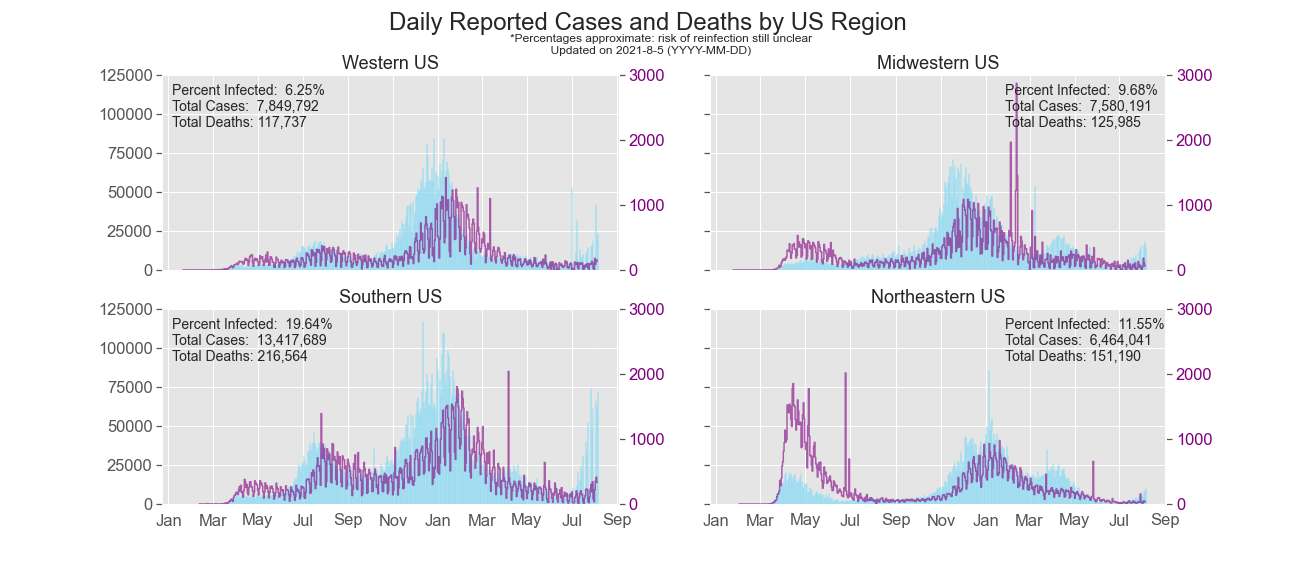
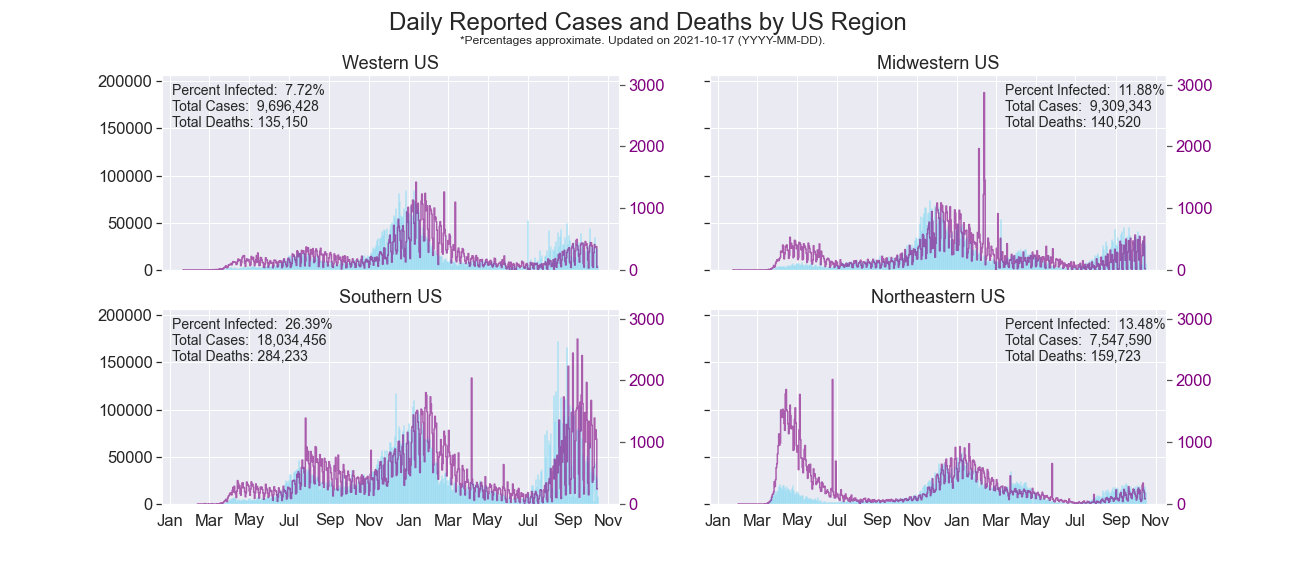
fixed bugs and added env file

diff --git a/src/make_fig_regions.py b/src/make_fig_regions.py
@@ -1,12 +1,10 @@
 ############################################################################################
 # Imports 
 ############################################################################################
-import numpy as np
 import pandas as pd
 import time
 
 import matplotlib.pyplot as plt
-import matplotlib.dates as mdates
 from matplotlib.dates import DateFormatter
 import seaborn as sns
 sns.set(font_scale=1.5) 
@@ -19,7 +17,6 @@ from bs4 import BeautifulSoup
 import requests
 
 from helper_functions import dailyChanges
-from helper_functions import smoother
 from helper_functions import sumByDate
 
 ############################################################################################
@@ -53,7 +50,7 @@ html_content = requests.get(url).text      # Make a GET request to fetch the raw
 soup = BeautifulSoup(html_content, "lxml") # Parse the html content
 
 fips, countyName, stateName = [], [], []
-for tr in soup.find_all('tr')[29:-6]: #Found bounds manually
+for tr in soup.find_all('tr')[29:-6]: #Found bounds manually. Think of a better way
     tds = tr.find_all('td')
     fips.append(tds[0].text.replace('\r\n\t\t\t\t',''))
     countyName.append(tds[1].text.replace('\r\n\t\t\t\t',''))
@@ -123,8 +120,8 @@ fig.suptitle('Daily Reported Cases and Deaths by US Region', fontsize=24)
 
 # Pad the space on the top to allow for an annotation below suptitle
 fig.subplots_adjust(top=0.87)
-plt.annotate('*Percentages approximate: risk of reinfection still unclear\n' + ' '*12 + 'Updated on ' + date_str, 
-             (-200,450), 
+plt.annotate(f"*Percentages approximate. Updated on {date_str}.", 
+             (-250,460), 
              fontsize=12, 
              xycoords='axes pixels')
 
@@ -143,6 +140,9 @@ new_axes = []
 axes = [ax[0,0], ax[0,1], ax[1,1], ax[1,0]]
 
 # Set the cases plot parameters in a relatively efficient manner
+highest_cases = int(max([dailyW.max()[0], dailyMW.max()[0], dailyNE.max()[0], dailyS.max()[0]]))
+highest_deaths = int(max([dailyW.max()[1], dailyMW.max()[1], dailyNE.max()[1], dailyS.max()[1]]))
+
 for i, axis in enumerate(axes):
     axis.set_title(titles[i], fontsize=18)
     axis.xaxis.set_major_formatter(date_form)
@@ -155,7 +155,7 @@ for i, axis in enumerate(axes):
              width=1,
              color='deepskyblue',
              alpha=0.6)   
-    axis.set_ylim([0,125000])
+    axis.set_ylim([0, highest_cases + highest_cases//10])
     
     # Make dual axes
     new_axes.append(axis.twinx())
@@ -164,11 +164,15 @@ for i, axis in enumerate(axes):
 for i, axis in enumerate(new_axes):
     axis.tick_params(axis='y', labelcolor='purple')
     axis.xaxis.set_major_formatter(date_form)
-    axis.set_ylim([0,2250])
+    axis.set_ylim([0, highest_deaths + highest_deaths//10])
     axis.grid(False)                                 # Turn off second grid
     new_axes[i].step(plot_data[i].index, 
                      plot_data[i].new_deaths,  
                      color='purple',
                      alpha=0.6)
     
-plt.savefig('../figures/Daily_US_Regions')
+
+if __name__ == '__main__':
+    # Save the figure
+    plt.savefig('../figures/Daily_US_Regions')
+    plt.show()

diff --git a/src/make_fig_usa.py b/src/make_fig_usa.py
@@ -1,12 +1,10 @@
 ############################################################################################
 # Imports
 ############################################################################################
-import numpy as np
 import pandas as pd
 import time
 
 import matplotlib.pyplot as plt
-import matplotlib.dates as mdates
 from matplotlib.dates import DateFormatter
 import seaborn as sns
 sns.set(font_scale=1.5) 
@@ -16,8 +14,6 @@ from pandas.plotting import register_matplotlib_converters
 register_matplotlib_converters()
 
 from helper_functions import dailyChanges
-from helper_functions import smoother
-from helper_functions import sumByDate
 
 ############################################################################################
 # Gather data and relevant stats for use in the figure
@@ -70,10 +66,11 @@ ax2.step(usa_daily.index,
 
 # Pad the space on the top to allow for an annotation below suptitle
 fig.suptitle('Daily Reported Cases and Deaths in the US*', fontsize=22)
-fig.subplots_adjust(top=0.87) 
-plt.annotate('*Percentage approximate: risk of reinfection still unclear\n' + ' '*12 + 'Updated on ' + date_str, (200,390), 
-              fontsize=12, 
-              xycoords='axes pixels')
+fig.subplots_adjust(top=0.9) 
+plt.annotate(f"*Percentage approximate. Updated on {date_str}",
+             (175,400), 
+             fontsize=12, 
+             xycoords='axes pixels')
 
 # Annotate with the total number of cases and deaths. 
 ax.annotate('Percent Infected:  {:.2f}%\nTotal Cases:  {:,}\nTotal Deaths: {:,}'.format(percent_infected, usa_cases, usa_deaths), 
@@ -85,14 +82,19 @@ ax.annotate('Percent Infected:  {:.2f}%\nTotal Cases:  {:,}\nTotal Deaths: {:,}'
 date_form = DateFormatter("%b")
 ax.xaxis.set_major_formatter(date_form)
 
-# Make ax2 tick labels the color of the graph
+# Make axes tick labels the color of the graph
+highest_cases, highest_deaths = max(usa_daily.new_cases), max(usa_daily.new_deaths)
 ax2.tick_params(axis='y', labelcolor='purple')
-ax2.set_ylim([0,4000])
+ax.set_ylim([0, highest_cases + highest_cases//10])
+ax2.set_ylim([0, highest_deaths + highest_deaths//10])
 
 # Format the legend and grid
 ax.legend(loc='upper left')
 ax2.legend(loc='upper left', bbox_to_anchor=(0, 0.92))
 ax2.grid(False)
 
-# Save the figure
-plt.savefig('../figures/Daily_US')
+
+if __name__ == '__main__':
+    # Save the figure
+    plt.savefig('../figures/Daily_US')
+    plt.show()

diff --git a/src/make_fig_county.py b/src/make_fig_county.py
@@ -1,11 +1,9 @@
 ############################################################################################
 # Imports and gather data
 ############################################################################################
-import numpy as np
 import pandas as pd
 
 import matplotlib.pyplot as plt
-import matplotlib.dates as mdates
 from matplotlib.dates import DateFormatter
 import seaborn as sns
 sns.set(font_scale=1.5) 
@@ -16,7 +14,6 @@ register_matplotlib_converters()
 
 from helper_functions import dailyChanges
 from helper_functions import smoother
-from helper_functions import sumByDate
 
 
 # URL to NY Times COVID-19 data
@@ -37,14 +34,14 @@ fig, ax = plt.subplots(figsize=(13,7))
 
 plt.style.use('ggplot')
 
-ax.bar(king.index,
-       king.cases,
+ax.bar(daily_king.index,
+       daily_king.cases,
        color='thistle',
        label='Cumulative Cases',
        width=1)
 
-ax.bar(king.index,
-       king.deaths,
+ax.bar(daily_king.index,
+       daily_king.deaths,
        color='purple',
        label='Cumulative Deaths',
        width=1,
@@ -53,8 +50,8 @@ ax.bar(king.index,
 ax.set_title('Cumulative Reported Cases and Deaths (King County WA)', fontsize=18)
 
 # Annotate with the total number of cases and deaths.
-ax.annotate('Total Cases:  {:,}'.format(king.cases.values[-1]), (10,302), fontsize=17, xycoords='axes pixels')
-ax.annotate('Total Deaths:      {:,}'.format(king.deaths.values[-1]), (10,282), fontsize=17, xycoords='axes pixels')
+ax.annotate('Total Cases:  {:,}'.format(daily_king.cases.values[-1]), (10,302), fontsize=17, xycoords='axes pixels')
+ax.annotate('Total Deaths:      {:,}'.format(daily_king.deaths.values[-1]), (10,282), fontsize=17, xycoords='axes pixels')
 
 date_form = DateFormatter("%b")
 ax.xaxis.set_major_formatter(date_form)
@@ -114,5 +111,6 @@ ax[1].xaxis.set_major_formatter(date_form)
 ax[0].legend()
 ax[1].legend(loc='upper center')
 
-plt.savefig('../figures/Daily_King_County')
-plt.show()
+if __name__ == '__main__':
+    #plt.savefig('../figures/Daily_King_County')
+    plt.show()

diff --git a/src/helper_functions.py b/src/helper_functions.py
@@ -121,3 +121,5 @@ def sumByDate(dataframe: pd.DataFrame, cols: List[str]) -> pd.DataFrame:
         sumDF.loc[date] = dataframe[cols].loc[date].sum()
     return sumDF
 
+if __name__ == '__main__':
+    pass
